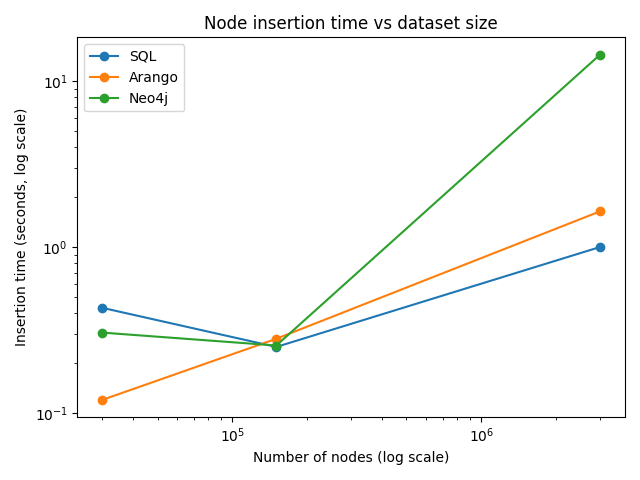
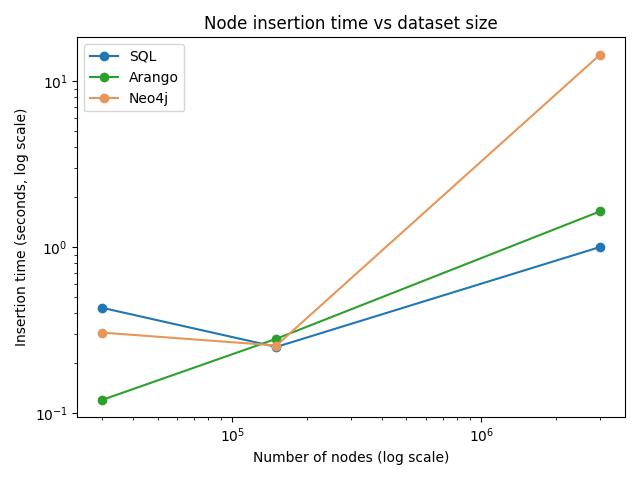
updated

diff --git a/src/tools/ploter_queries.py b/src/tools/ploter_queries.py
@@ -80,11 +80,16 @@ insert_edges = {
     "Arango": to_seconds(["0.55 s", "1.44 s", "12.75 s"]),
     "Neo4j": to_seconds(["493 ms", "1296 ms", "51562 ms"]),
 }
+colors = {
+    "SQL": "#1f77b4",     # blue
+    "Arango": "#2ca02c",  # orange
+    "Neo4j": "#e79658",   # green
+}
 
 
 plt.figure()
 for db, vals in insert_nodes.items():
-    plt.plot(sizes, vals, marker='o', label=db)
+    plt.plot(sizes, vals, marker='o', label=db, color=colors[db])
 plt.xscale('log')
 plt.yscale('log')
 plt.xlabel("Number of nodes (log scale)")

diff --git a/src/tools/ploter_misc.py b/src/tools/ploter_misc.py
@@ -12,8 +12,8 @@ sizes_mb = {
 
 colors = {
     "SQL": "#1f77b4",     # blue
-    "Arango": "#e79658",  # orange
-    "Neo4J": "#2ca02c",   # green
+    "Arango": "#2ca02c",  # orange
+    "Neo4J": "#e79658",   # green
 }
 
 x = np.arange(len(datasets))
